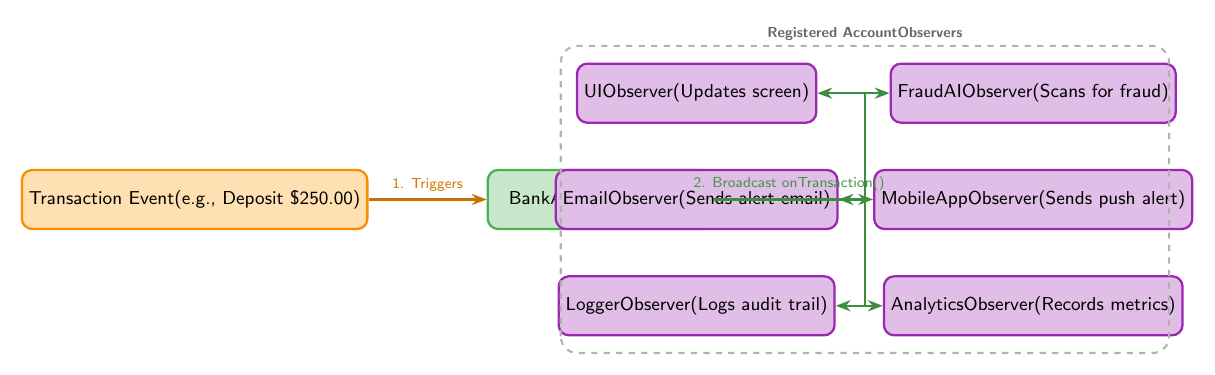
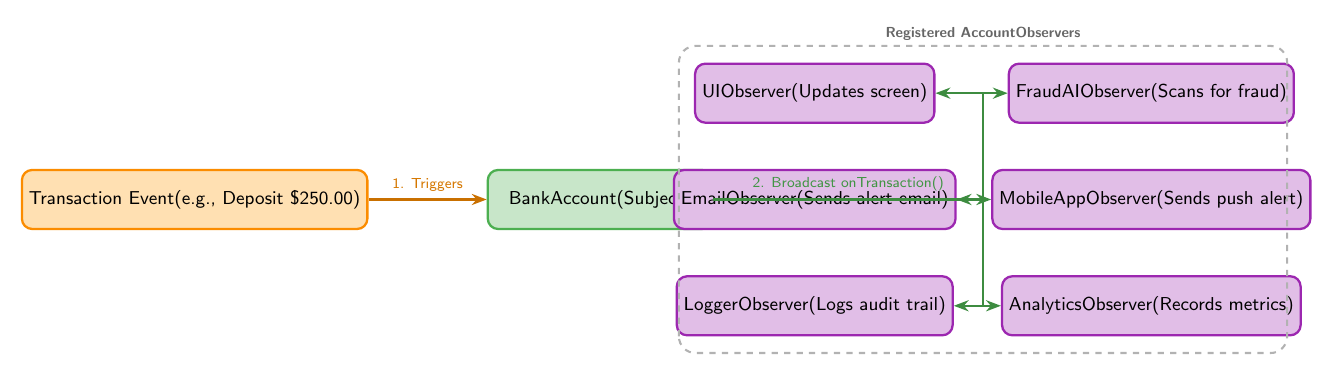
Rerender bank flowchart with expanded horizontal offsets to prevent overlapping

diff --git a/Observer/reports/observer_flowchart_bank.tex b/Observer/reports/observer_flowchart_bank.tex
@@ -23,42 +23,42 @@
   \node[block, fill=subjectFill, draw=subjectBorder, right=2.0cm of event] (subject) {BankAccount\\(Subject)};
   
   % Symmetrical Observer Columns: Column 1 (Left), Column 2 (Right)
-  % We place Column 1 left of center, Column 2 right of center, centering around x=9.5.
-  \node[block, fill=observerFill, draw=observerBorder] (obs_ui) at (8.5, 1.8) {UIObserver\\(Updates screen)};
-  \node[block, fill=observerFill, draw=observerBorder] (obs_email) at (8.5, 0) {EmailObserver\\(Sends alert email)};
-  \node[block, fill=observerFill, draw=observerBorder] (obs_log) at (8.5, -1.8) {LoggerObserver\\(Logs audit trail)};
+  % We place Column 1 left of center, Column 2 right of center, centering around x=13.35.
+  \node[block, fill=observerFill, draw=observerBorder] (obs_ui) at (10.5, 1.8) {UIObserver\\(Updates screen)};
+  \node[block, fill=observerFill, draw=observerBorder] (obs_email) at (10.5, 0) {EmailObserver\\(Sends alert email)};
+  \node[block, fill=observerFill, draw=observerBorder] (obs_log) at (10.5, -1.8) {LoggerObserver\\(Logs audit trail)};
   
-  \node[block, fill=observerFill, draw=observerBorder] (obs_fraud) at (14.2, 1.8) {FraudAIObserver\\(Scans for fraud)};
-  \node[block, fill=observerFill, draw=observerBorder] (obs_mobile) at (14.2, 0) {MobileAppObserver\\(Sends push alert)};
-  \node[block, fill=observerFill, draw=observerBorder] (obs_analytics) at (14.2, -1.8) {AnalyticsObserver\\(Records metrics)};
+  \node[block, fill=observerFill, draw=observerBorder] (obs_fraud) at (16.2, 1.8) {FraudAIObserver\\(Scans for fraud)};
+  \node[block, fill=observerFill, draw=observerBorder] (obs_mobile) at (16.2, 0) {MobileAppObserver\\(Sends push alert)};
+  \node[block, fill=observerFill, draw=observerBorder] (obs_analytics) at (16.2, -1.8) {AnalyticsObserver\\(Records metrics)};
 
   % Boundary Box for Observers
   \draw[dashed, draw=gray!60, line width=1pt, rounded corners=8pt] 
-      (6.2, -2.6) rectangle (16.5, 2.6);
-  \node[font=\sffamily\bfseries\scriptsize, text=gray!80!black] at (11.35, 2.8) {Registered AccountObservers};
+      (8.2, -2.6) rectangle (18.5, 2.6);
+  \node[font=\sffamily\bfseries\scriptsize, text=gray!80!black] at (13.35, 2.8) {Registered AccountObservers};
 
   % Event to BankAccount arrow
   \draw[arrow, draw=eventBorder!80!black] (event) -- (subject) 
       node[midway, above, font=\sffamily\scriptsize, text=eventBorder!85!black] {1. Triggers};
   
   % BankAccount to Central Bus
-  % Central distribution bus is at x = 11.35
-  \draw[line width=1.1pt, draw=subjectBorder!80!black] (subject.east) -- (11.35, 0)
+  % Central distribution bus is at x = 13.35
+  \draw[line width=1.1pt, draw=subjectBorder!80!black] (subject.east) -- (13.35, 0)
       node[midway, above, font=\sffamily\scriptsize, text=subjectBorder!85!black] {2. Broadcast onTransaction()};
       
   % Vertical distribution bus line
-  \draw[line width=1.1pt, draw=subjectBorder!80!black] (11.35, 1.8) -- (11.35, -1.8);
+  \draw[line width=1.1pt, draw=subjectBorder!80!black] (13.35, 1.8) -- (13.35, -1.8);
   
   % Distribution arrows pointing outwards to observers
   % Left Column (connects to east side of nodes)
-  \draw[arrow, draw=subjectBorder!80!black] (11.35, 1.8) -- (obs_ui.east);
-  \draw[arrow, draw=subjectBorder!80!black] (11.35, 0) -- (obs_email.east);
-  \draw[arrow, draw=subjectBorder!80!black] (11.35, -1.8) -- (obs_log.east);
+  \draw[arrow, draw=subjectBorder!80!black] (13.35, 1.8) -- (obs_ui.east);
+  \draw[arrow, draw=subjectBorder!80!black] (13.35, 0) -- (obs_email.east);
+  \draw[arrow, draw=subjectBorder!80!black] (13.35, -1.8) -- (obs_log.east);
   
   % Right Column (connects to west side of nodes)
-  \draw[arrow, draw=subjectBorder!80!black] (11.35, 1.8) -- (obs_fraud.west);
-  \draw[arrow, draw=subjectBorder!80!black] (11.35, 0) -- (obs_mobile.west);
-  \draw[arrow, draw=subjectBorder!80!black] (11.35, -1.8) -- (obs_analytics.west);
+  \draw[arrow, draw=subjectBorder!80!black] (13.35, 1.8) -- (obs_fraud.west);
+  \draw[arrow, draw=subjectBorder!80!black] (13.35, 0) -- (obs_mobile.west);
+  \draw[arrow, draw=subjectBorder!80!black] (13.35, -1.8) -- (obs_analytics.west);
 
 \end{tikzpicture}
 \end{document}